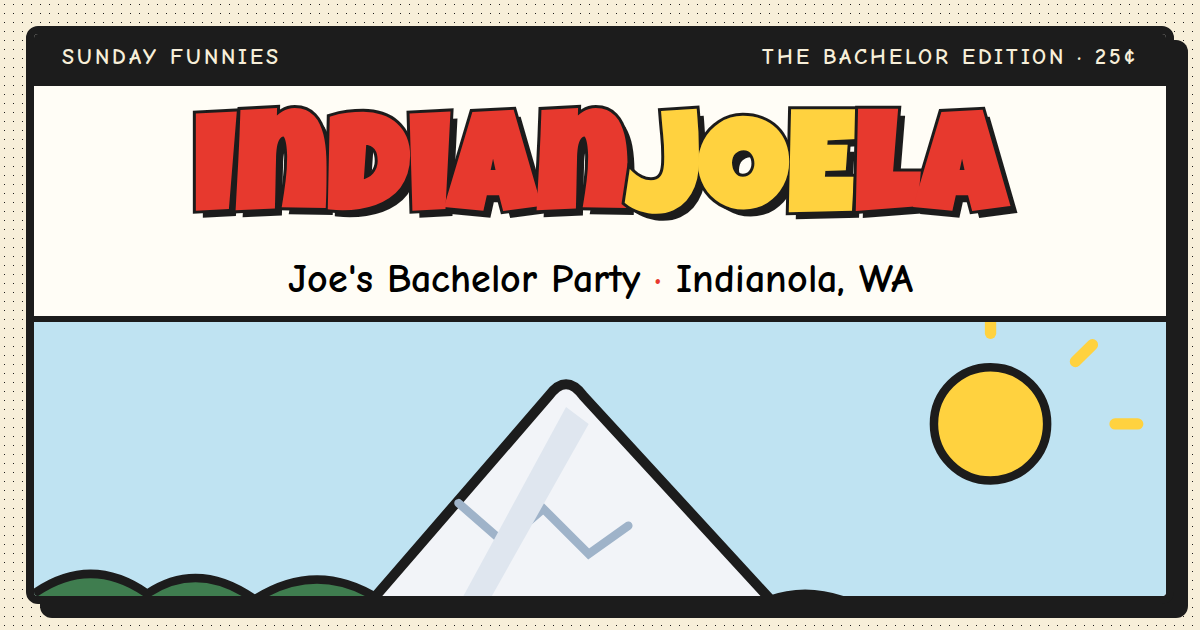
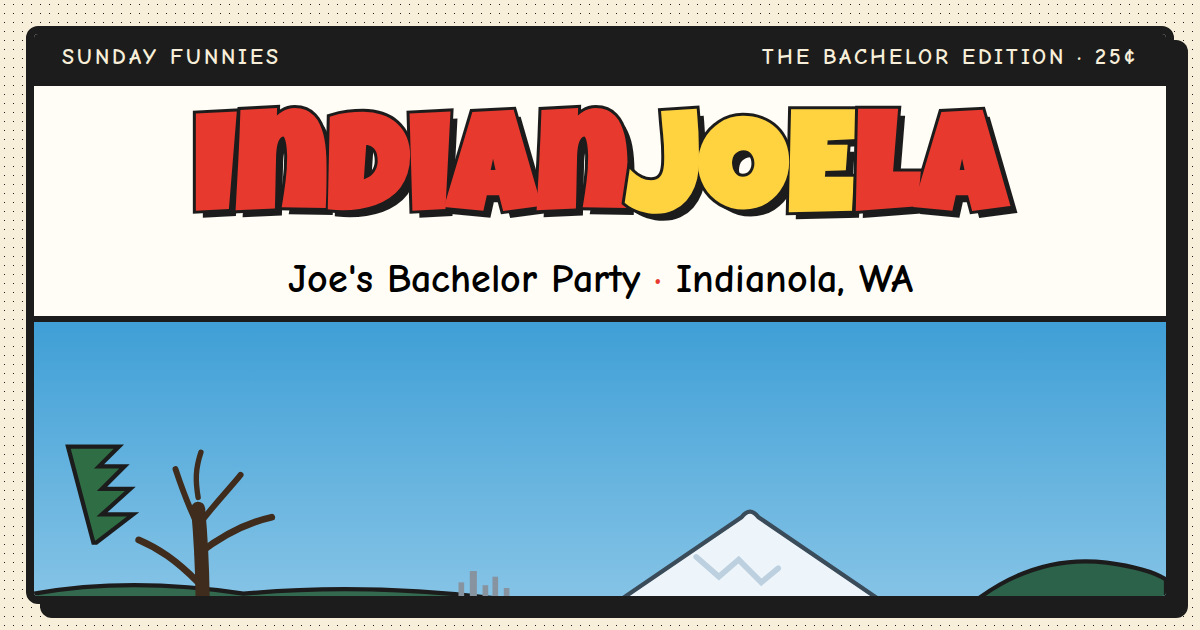
Polish: blurred-fill photo framing, Indianola pier masthead scene, anchor tab bar to visible viewport

diff --git a/index.html b/index.html
@@ -43,42 +43,88 @@
 
       <p class="logo__sub">Joe's Bachelor Party <b>·</b> Indianola, WA</p>
 
-      <!-- Foxtrot-style scenery: Mt Rainier over the Puget Sound tide flats -->
-      <div class="scene" role="img" aria-label="Mount Rainier over the Puget Sound tide flats at Indianola">
+      <!-- Indianola: the long pier, tide out, Mt Rainier in the distance -->
+      <div class="scene" role="img" aria-label="The Indianola dock at low tide with Mount Rainier in the distance">
         <svg viewBox="0 0 400 200" preserveAspectRatio="xMidYMid slice" xmlns="http://www.w3.org/2000/svg">
+          <defs>
+            <linearGradient id="ij-sky" x1="0" y1="0" x2="0" y2="1">
+              <stop offset="0" stop-color="#3f9fd6"/><stop offset="1" stop-color="#cfeaf7"/>
+            </linearGradient>
+            <linearGradient id="ij-sea" x1="0" y1="0" x2="0" y2="1">
+              <stop offset="0" stop-color="#3a86b8"/><stop offset="1" stop-color="#74bbdd"/>
+            </linearGradient>
+          </defs>
+
           <!-- sky -->
-          <rect x="0" y="0" width="400" height="200" fill="#bfe3f2"/>
-          <!-- sun -->
-          <circle cx="328" cy="48" r="22" fill="#ffd23f" stroke="#1c1c1c" stroke-width="3"/>
-          <g stroke="#ffd23f" stroke-width="4" stroke-linecap="round">
-            <line x1="328" y1="10" x2="328" y2="2"/><line x1="362" y1="20" x2="368" y2="14"/>
-            <line x1="376" y1="48" x2="384" y2="48"/><line x1="362" y1="76" x2="368" y2="82"/>
+          <rect x="0" y="0" width="400" height="200" fill="url(#ij-sky)"/>
+
+          <!-- distant left shoreline -->
+          <path d="M0 96 q34 -6 74 0 q44 -4 92 2 L166 101 L0 101 Z" fill="#33694f" stroke="#1c1c1c" stroke-width="1.5"/>
+          <!-- faraway Seattle skyline -->
+          <g fill="#8893a0">
+            <rect x="150" y="92" width="2" height="7"/><rect x="154" y="88" width="2.5" height="11"/>
+            <rect x="158.5" y="93" width="2" height="6"/><rect x="162" y="90" width="2" height="9"/>
+            <rect x="166" y="94" width="2" height="5"/>
           </g>
-          <!-- distant evergreen shoreline -->
-          <path d="M0 118 q20 -16 40 0 q18 -14 38 2 q22 -16 44 0 q20 -12 40 2 q24 -16 46 0 q22 -12 44 2 q20 -14 42 0 q18 -10 22 4 V140 H0 Z"
-                fill="#3f7d4f" stroke="#1c1c1c" stroke-width="3"/>
-          <!-- MT RAINIER -->
-          <path d="M118 120 L182 36 q6 -8 12 0 L262 120 Z" fill="#f2f4f8" stroke="#1c1c1c" stroke-width="3.5" stroke-linejoin="round"/>
-          <!-- snow ridges / shading -->
-          <path d="M150 84 l16 14 l14 -12 l16 16 l14 -10" fill="none" stroke="#9fb3c9" stroke-width="3" stroke-linecap="round"/>
-          <path d="M188 40 L150 120 H160 L196 46 Z" fill="#dfe6ef"/>
+          <!-- MT RAINIER, distant -->
+          <path d="M206 99 L250 69 q3 -4 6 0 L300 99 Z" fill="#eef5fa" stroke="#3a4b59" stroke-width="1.5" stroke-linejoin="round"/>
+          <path d="M234 83 l8 7 l7 -6 l8 8 l6 -5" fill="none" stroke="#bcd0e0" stroke-width="2" stroke-linecap="round"/>
+          <!-- right headland / island -->
+          <path d="M332 99 q22 -17 47 -14 q15 2 21 6 L400 99 Z" fill="#2c624a" stroke="#1c1c1c" stroke-width="1.5"/>
+
           <!-- water -->
-          <rect x="0" y="120" width="400" height="80" fill="#5bb6dd"/>
-          <!-- mountain reflection -->
-          <path d="M118 120 L190 168 L262 120 Z" fill="#7fc8e6" opacity="0.7"/>
-          <!-- tide-flat ripples -->
-          <g stroke="#2b8fc0" stroke-width="3" stroke-linecap="round" fill="none" opacity="0.8">
-            <path d="M20 150 q14 -6 28 0 t28 0"/>
-            <path d="M250 158 q14 -6 28 0 t28 0"/>
-            <path d="M120 176 q14 -6 28 0 t28 0"/>
+          <rect x="0" y="98" width="400" height="62" fill="url(#ij-sea)"/>
+          <g stroke="#c7e6f1" stroke-width="1.5" stroke-linecap="round" opacity="0.6" fill="none">
+            <path d="M215 122 q10 -4 20 0 t20 0"/>
+            <path d="M305 132 q10 -4 20 0 t20 0"/>
           </g>
-          <!-- wet tide flat in foreground -->
-          <path d="M0 182 q60 -10 120 0 t160 0 t120 0 V200 H0 Z" fill="#c8a86a" stroke="#1c1c1c" stroke-width="3"/>
-          <!-- little dock -->
-          <g stroke="#1c1c1c" stroke-width="3">
-            <rect x="40" y="150" width="70" height="8" fill="#9a6b3f"/>
-            <line x1="48" y1="158" x2="48" y2="186"/>
-            <line x1="102" y1="158" x2="102" y2="186"/>
+          <!-- tiny sailboat -->
+          <g stroke="#1c1c1c" stroke-width="1.1">
+            <path d="M340 117 l0 -12 l8 12 z" fill="#ffffff"/>
+            <path d="M335 117 h13 l-2 4 h-9 z" fill="#e7392e"/>
+          </g>
+
+          <!-- THE LONG DOCK receding toward the mountain -->
+          <path d="M14 135 L298 104" stroke="#1c1c1c" stroke-width="8" stroke-linecap="round"/>
+          <path d="M14 135 L298 104" stroke="#9a6b3f" stroke-width="4.4" stroke-linecap="round"/>
+          <g stroke="#2e2118" stroke-width="2.3" stroke-linecap="round">
+            <line x1="26" y1="134" x2="26" y2="153"/>
+            <line x1="54" y1="131" x2="54" y2="149"/>
+            <line x1="82" y1="128" x2="82" y2="145"/>
+            <line x1="110" y1="125" x2="110" y2="141"/>
+            <line x1="138" y1="122" x2="138" y2="137"/>
+            <line x1="166" y1="120" x2="166" y2="134"/>
+            <line x1="194" y1="117" x2="194" y2="130"/>
+            <line x1="222" y1="114" x2="222" y2="126"/>
+            <line x1="250" y1="111" x2="250" y2="123"/>
+            <line x1="278" y1="108" x2="278" y2="119"/>
+          </g>
+
+          <!-- exposed tide flats in the foreground -->
+          <path d="M0 150 q80 -12 160 -4 q120 7 240 -3 L400 200 L0 200 Z" fill="#cbb37b" stroke="#1c1c1c" stroke-width="2"/>
+          <g fill="#67add2" opacity="0.85" stroke="#1c1c1c" stroke-width="0.8">
+            <path d="M120 176 q42 -10 92 -2 q-32 11 -92 2 z"/>
+            <path d="M248 189 q30 -8 70 -1 q-30 9 -70 1 z"/>
+          </g>
+          <g fill="#9c8554">
+            <circle cx="60" cy="181" r="1.4"/><circle cx="92" cy="191" r="1.4"/><circle cx="150" cy="186" r="1.4"/>
+            <circle cx="320" cy="178" r="1.4"/><circle cx="352" cy="193" r="1.4"/>
+          </g>
+
+          <!-- left lawn -->
+          <path d="M0 158 q44 6 74 26 q-22 9 -74 11 Z" fill="#5aa24a" stroke="#1c1c1c" stroke-width="2"/>
+
+          <!-- evergreen at far left -->
+          <path d="M12 44 l18 0 l-7 7 l9 0 l-8 8 l10 0 l-10 9 l11 0 l-13 10 l-1 0 Z" fill="#2f6d44" stroke="#1c1c1c" stroke-width="1.5"/>
+
+          <!-- the bare leaning tree -->
+          <g stroke="#3f2c1d" stroke-linecap="round" fill="none">
+            <path d="M60 178 C57 142 62 110 58 66" stroke-width="5"/>
+            <path d="M58 92 C50 84 44 80 37 77" stroke-width="2.4"/>
+            <path d="M58 82 C67 75 75 71 84 69" stroke-width="2.4"/>
+            <path d="M58 72 C54 64 52 58 50 52" stroke-width="2.1"/>
+            <path d="M58 72 C64 64 69 59 73 54" stroke-width="2.1"/>
+            <path d="M58 62 C57 56 57 52 59 46" stroke-width="1.9"/>
           </g>
         </svg>
       </div>

diff --git a/js/main.js b/js/main.js
@@ -43,4 +43,23 @@
       t.classList.add("is-active");
     });
   });
+
+  /* ---- keep the bottom bar glued to the VISIBLE viewport bottom ----
+     iOS Safari positions `fixed` elements against the layout viewport, so
+     when the URL bar shrinks/expands a gap can open under the tab bar.
+     The VisualViewport API tells us where the real visible bottom is. */
+  const tabbar = document.querySelector(".tabbar");
+  const vv = window.visualViewport;
+  if (tabbar && vv) {
+    const pin = () => {
+      // how far the visible bottom sits above the layout bottom
+      const delta = window.innerHeight - (vv.height + vv.offsetTop);
+      tabbar.style.transform = `translateY(${-delta}px)`;
+    };
+    vv.addEventListener("resize", pin);
+    vv.addEventListener("scroll", pin);
+    window.addEventListener("scroll", pin, { passive: true });
+    window.addEventListener("orientationchange", () => setTimeout(pin, 200));
+    pin();
+  }
 })();

diff --git a/css/styles.css b/css/styles.css
@@ -170,11 +170,25 @@ body {
   opacity: 0;
   transition: opacity 0.6s ease;
   display: grid; place-items: center;
+  overflow: hidden;
+  background: #15171a;
 }
 .slide.is-active { opacity: 1; }
+/* blurred fill behind the photo so any shape fills the frame nicely */
+.slide__bg {
+  position: absolute; inset: 0;
+  background-size: cover;
+  background-position: center;
+  filter: blur(20px) brightness(0.8);
+  transform: scale(1.2);
+  z-index: 0;
+}
 .slide img {
-  width: 100%; height: 100%;
-  object-fit: cover;
+  position: relative;
+  z-index: 1;
+  max-width: 100%; max-height: 100%;
+  width: auto; height: auto;
+  object-fit: contain;
   display: block;
 }
 

diff --git a/js/slideshow.js b/js/slideshow.js
@@ -155,6 +155,12 @@
     photos.forEach((p, i) => {
       const slide = document.createElement("div");
       slide.className = "slide" + (i === index ? " is-active" : "");
+
+      const bg = document.createElement("div");
+      bg.className = "slide__bg";
+      bg.style.backgroundImage = `url("${p.url}")`;
+      slide.appendChild(bg);
+
       const img = document.createElement("img");
       img.loading = "lazy";
       img.alt = "Bachelor party photo";